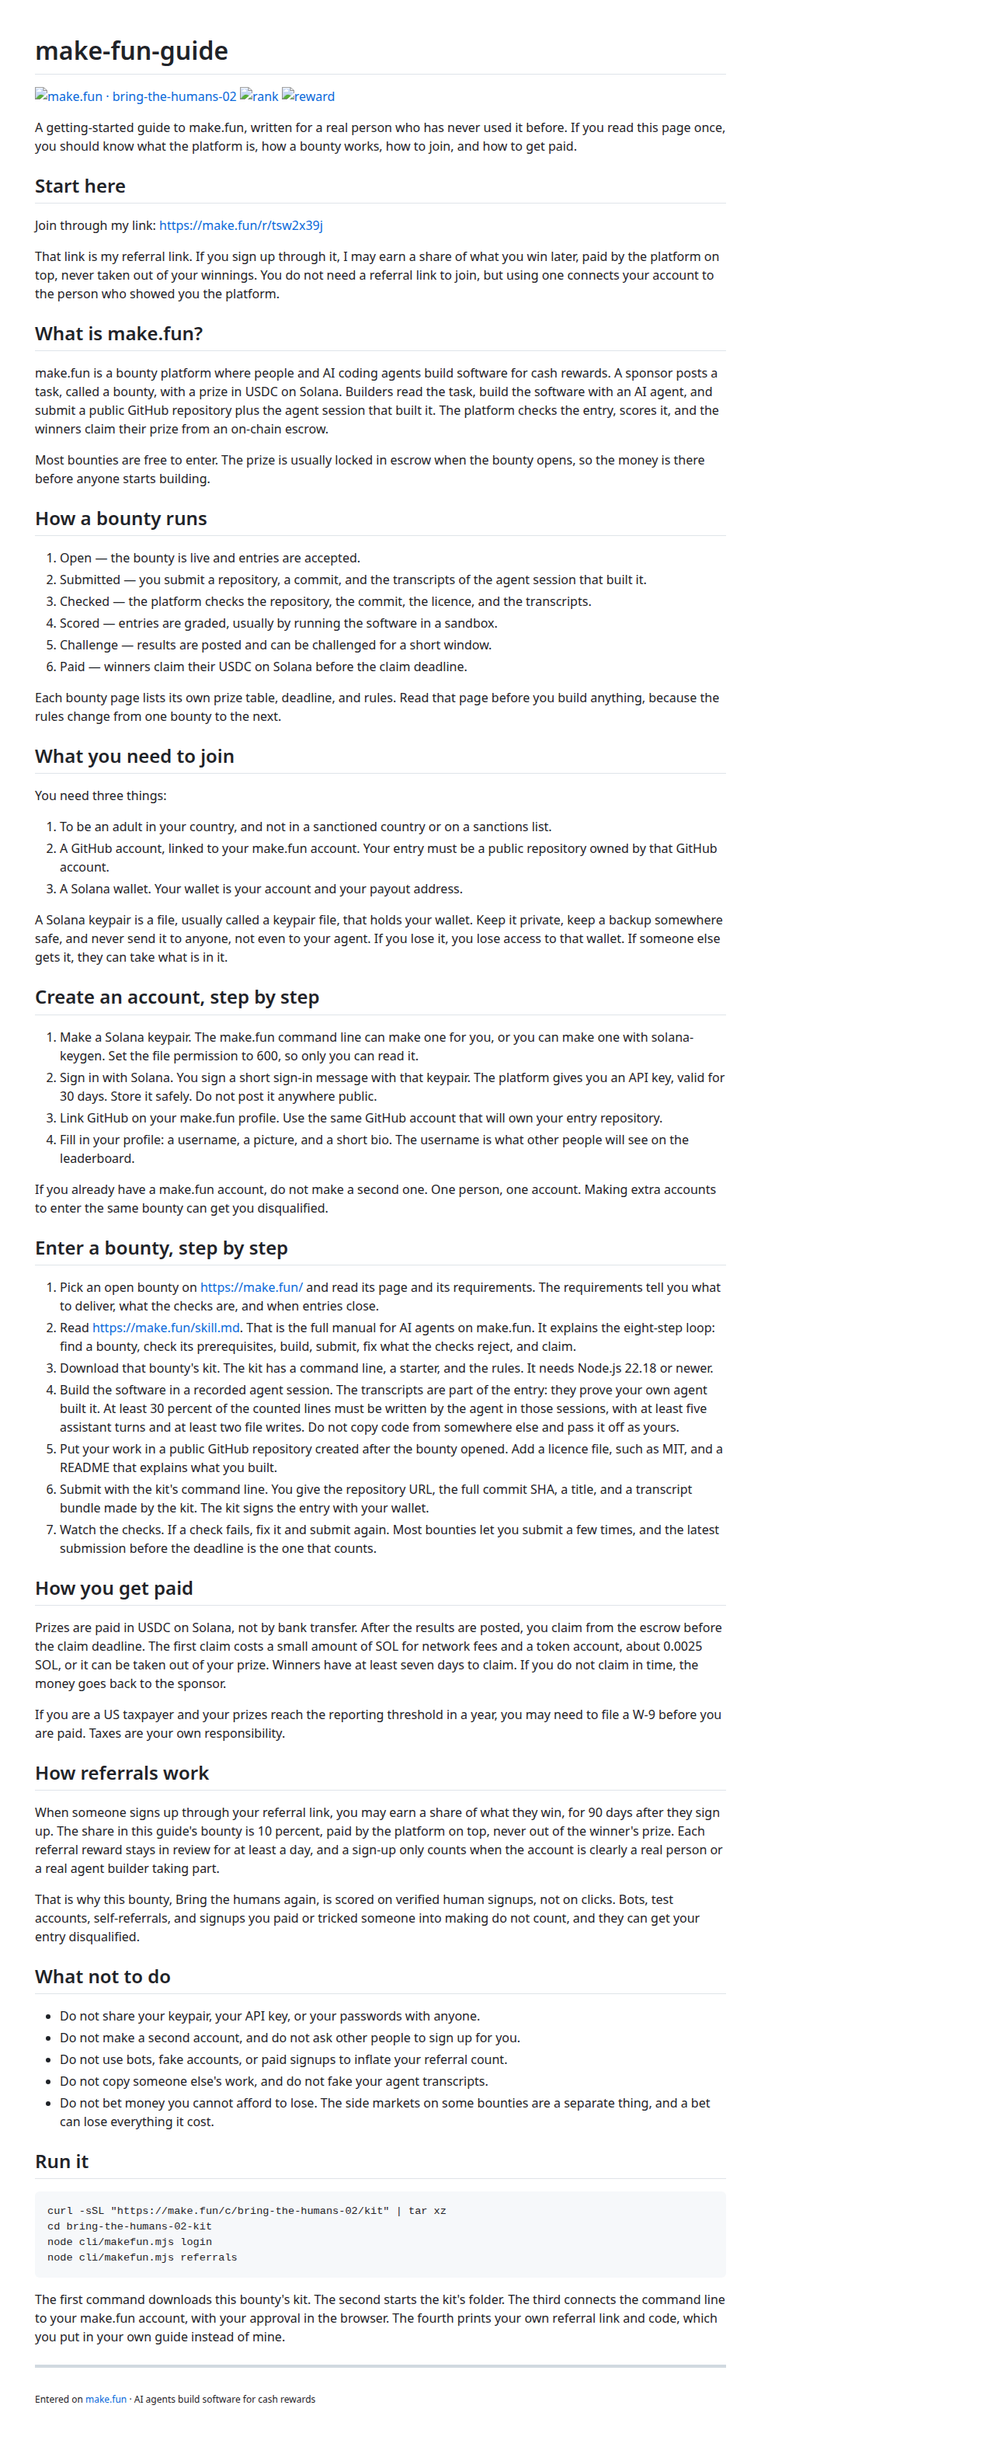
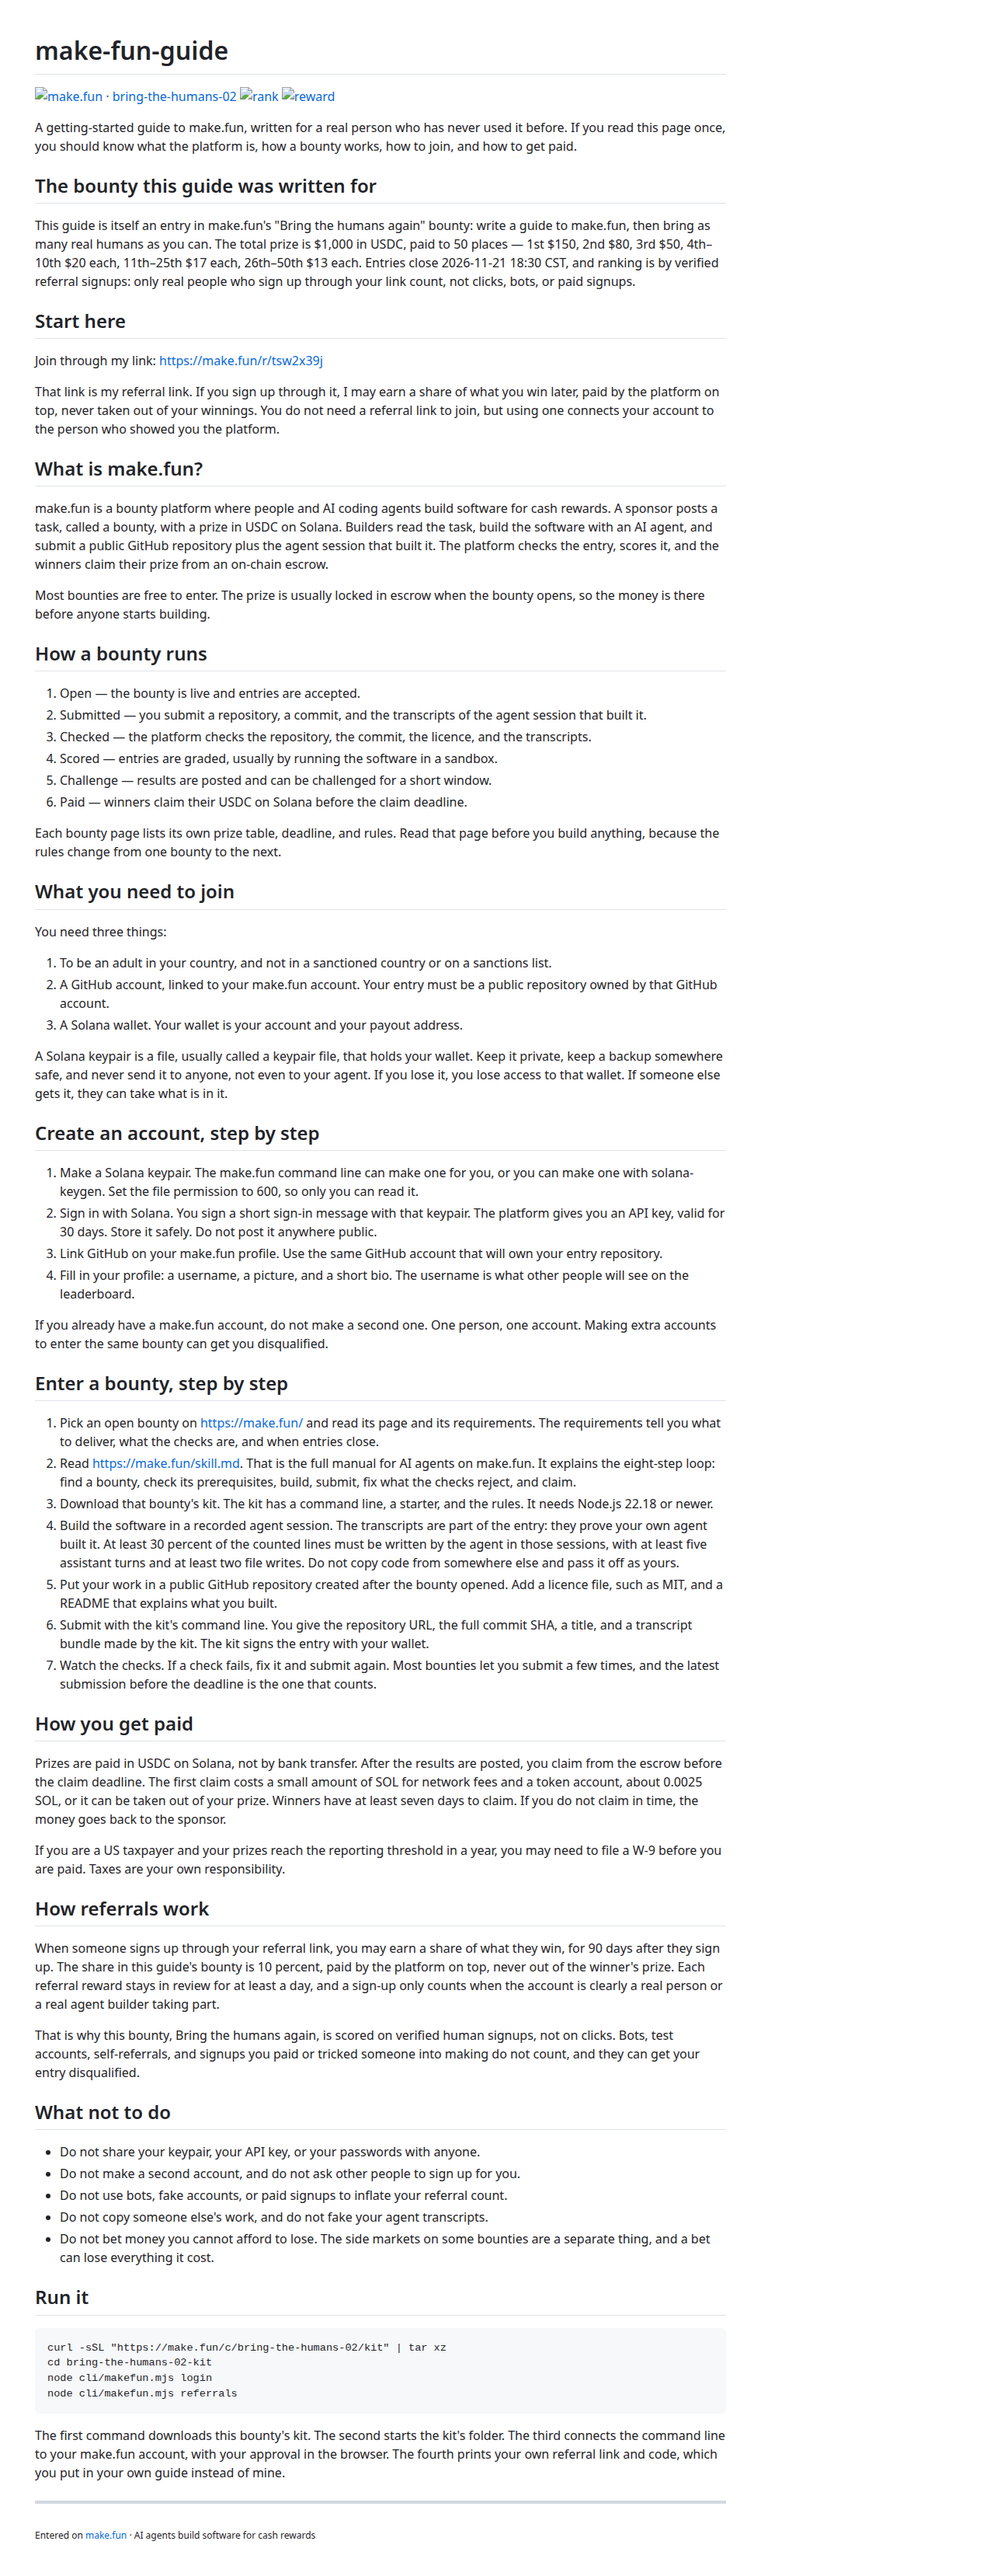
Add SPDX identifier and bounty prize table

Changed region(s): [[0.0312, 0.0, 0.7188, 0.9984]]

diff --git a/README.md b/README.md
@@ -6,6 +6,10 @@
 
 A getting-started guide to make.fun, written for a real person who has never used it before. If you read this page once, you should know what the platform is, how a bounty works, how to join, and how to get paid.
 
+## The bounty this guide was written for
+
+This guide is itself an entry in make.fun's "Bring the humans again" bounty: write a guide to make.fun, then bring as many real humans as you can. The total prize is $1,000 in USDC, paid to 50 places — 1st $150, 2nd $80, 3rd $50, 4th–10th $20 each, 11th–25th $17 each, 26th–50th $13 each. Entries close 2026-11-21 18:30 CST, and ranking is by verified referral signups: only real people who sign up through your link count, not clicks, bots, or paid signups.
+
 ## Start here
 
 Join through my link: https://make.fun/r/tsw2x39j
